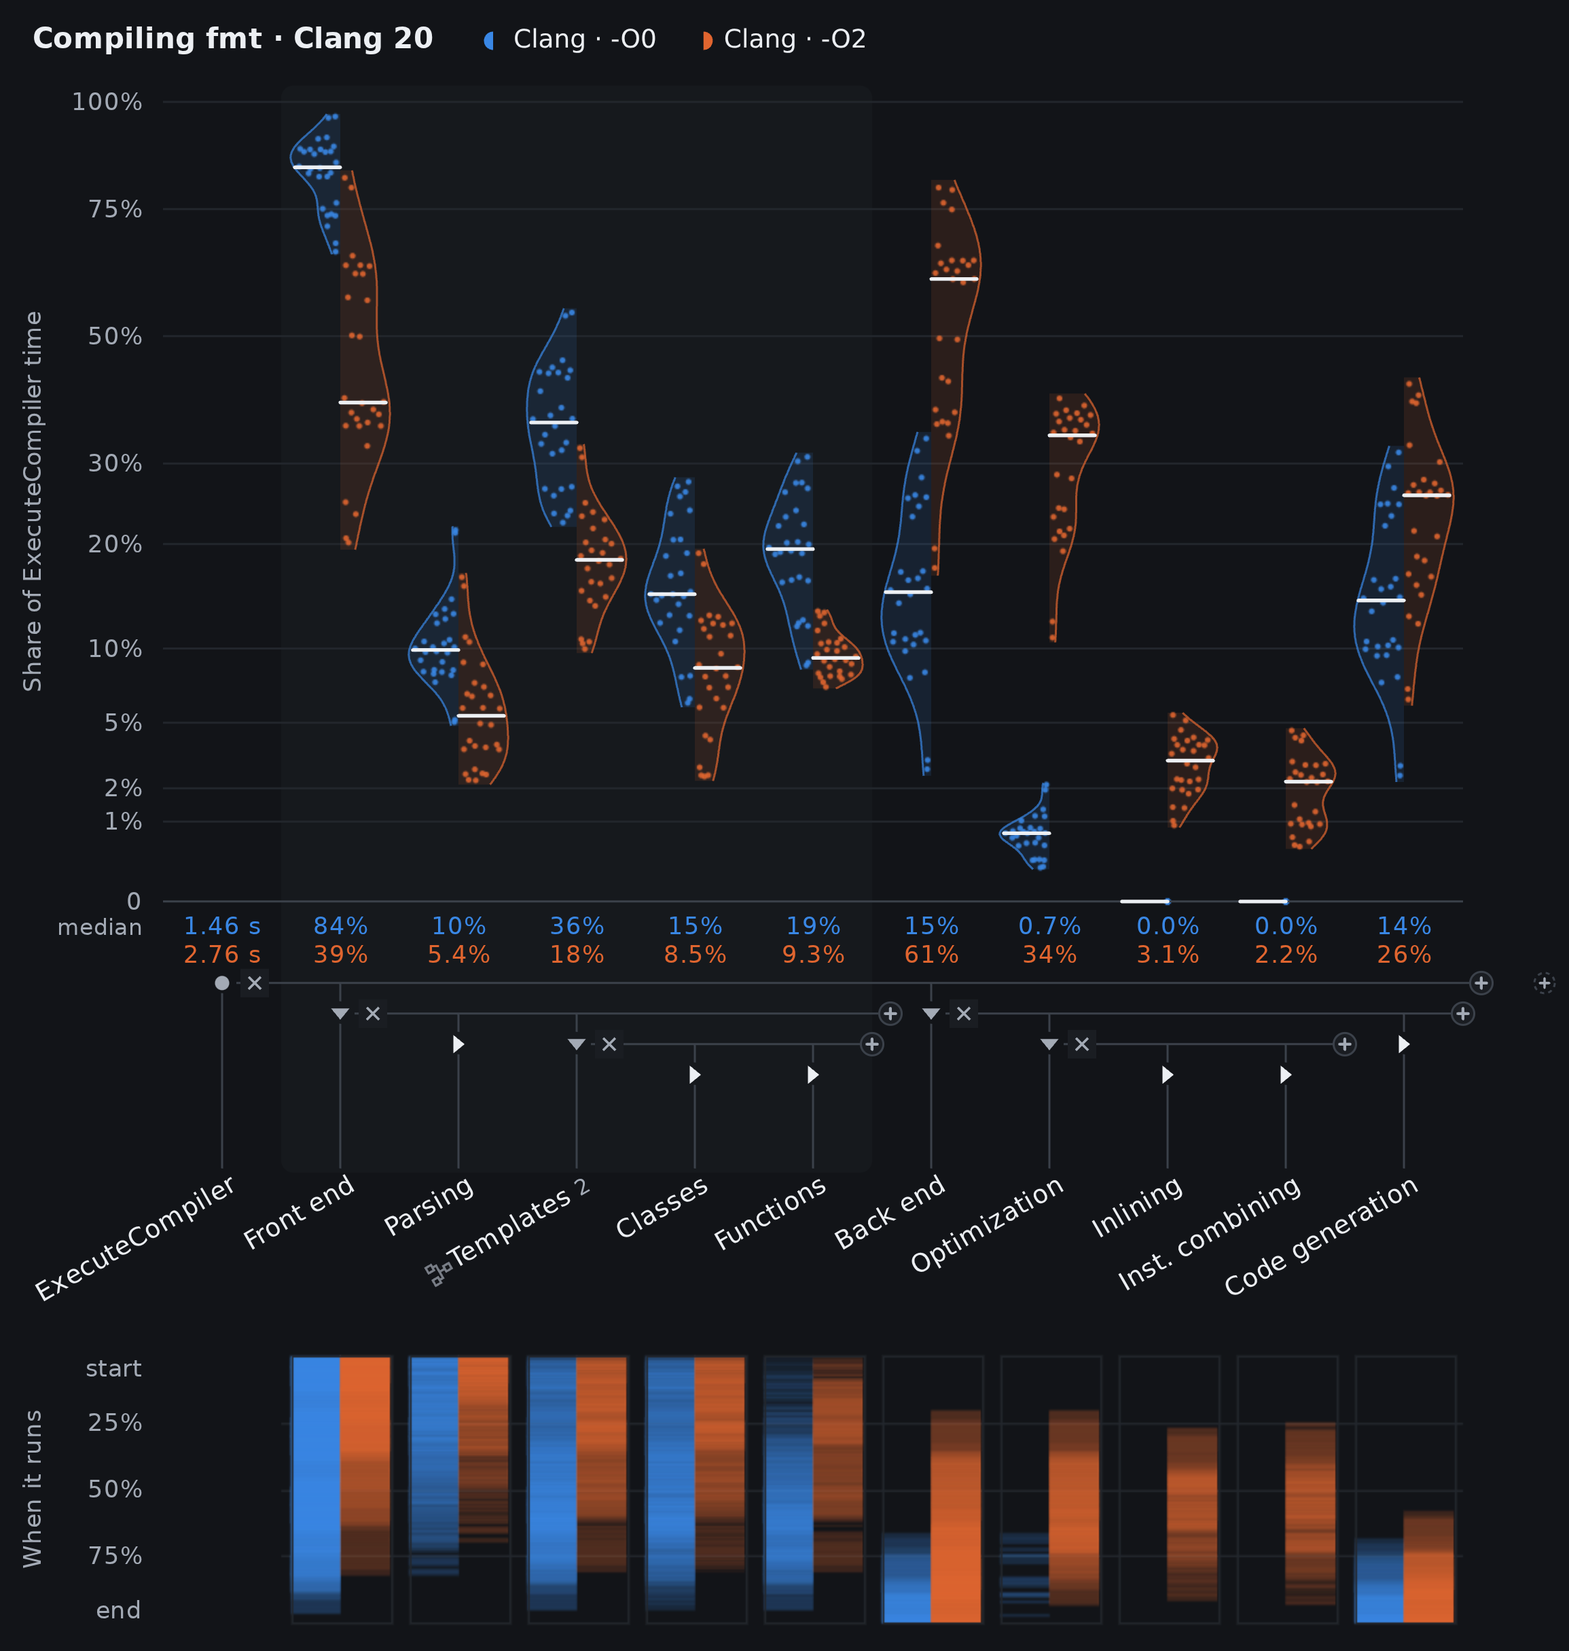
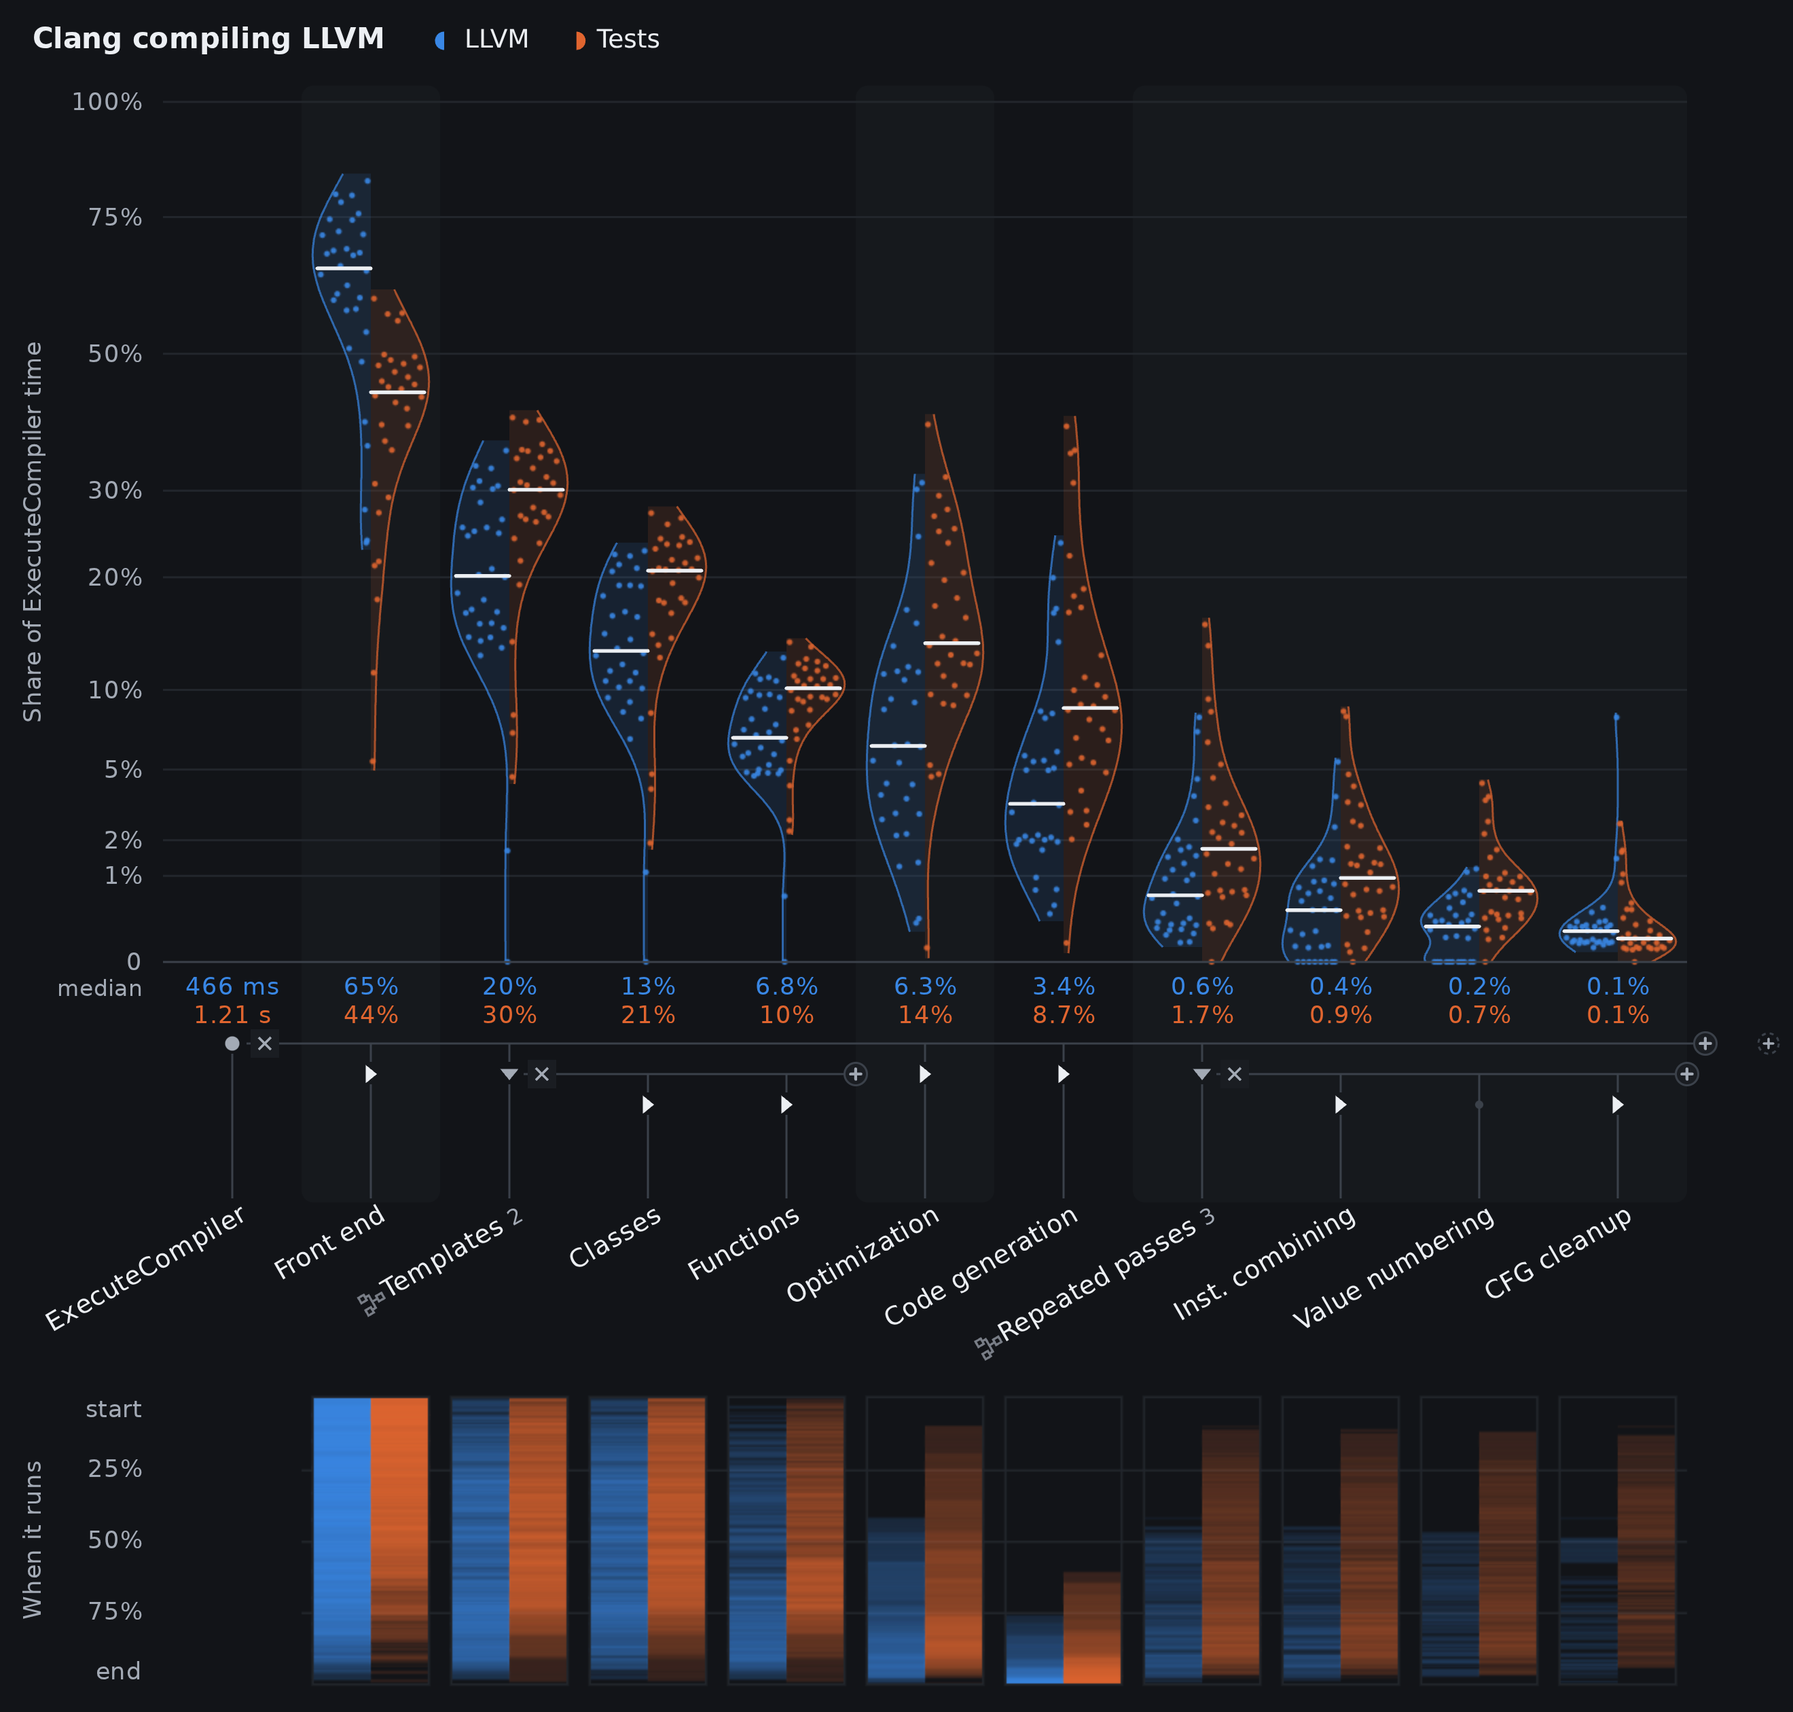
Showcase per-file LLVM compilation profiles
Collect time traces and optional perf stacks from compilation databases. Compare LLVM library and test files with reusable component layouts.

diff --git a/examples/clang/collect_build.py b/examples/clang/collect_build.py
@@ -1,0 +1,106 @@
+#!/usr/bin/env python3
+"""Replay selected compilation-database entries, one measurement per source file."""
+import argparse
+import fnmatch
+import gzip
+import hashlib
+import json
+from pathlib import Path
+import shlex
+import subprocess
+
+
+def main():
+    p = argparse.ArgumentParser(description=__doc__)
+    p.add_argument('database', type=Path)
+    p.add_argument('output', type=Path)
+    p.add_argument('--group', action='append', required=True, metavar='NAME=GLOB')
+    p.add_argument('--limit', type=int, default=32, help='evenly spaced files per group; 0 means all')
+    p.add_argument('--perf', action='store_true', help='also collect cpu-clock stacks (requires Linux perf permission)')
+    p.add_argument('--frequency', type=int, default=199)
+    p.add_argument('--granularity', type=int, default=100, help='time-trace minimum duration in microseconds')
+    p.add_argument('--launcher', default='', help='e.g. "balance-exec --kind compile --"')
+    p.add_argument('--resume', action='store_true')
+    a = p.parse_args()
+    if a.limit < 0 or a.frequency <= 0 or a.granularity < 0:
+        p.error('limit/granularity must be nonnegative; frequency must be positive')
+    a.output = a.output.resolve()
+    entries = json.loads(a.database.read_text())
+    manifest = []
+    for group in a.group:
+        name, pattern = group.split('=', 1)
+        if not name or Path(name).name != name or name in ('.', '..'):
+            p.error('group names must be single directory names')
+        selected = {e['file']: e for e in entries if fnmatch.fnmatch(e['file'], pattern) or fnmatch.fnmatch(e['file'], '*/'+pattern)}
+        selected = [selected[k] for k in sorted(selected)]
+        if not selected:
+            p.error(f'no compilation commands match {pattern}')
+        if a.limit and len(selected) > a.limit:
+            selected = [selected[k*(len(selected)-1)//max(1,a.limit-1)] for k in range(a.limit)]
+        for e in selected:
+            source = Path(e['file'])
+            if not source.is_absolute():
+                source = Path(e['directory'])/source
+            label = source.name
+            if sum(Path(item['file']).name == label for item in selected) > 1:
+                label += '-'+hashlib.sha256(str(source).encode()).hexdigest()[:6]
+            folder = a.output/name
+            folder.mkdir(parents=True, exist_ok=True)
+            base = folder/label
+            trace, profile = Path(str(base)+'.json'), Path(str(base)+'.perf.txt.gz')
+            original = e.get('arguments') or shlex.split(e['command'])
+            command, skip = [], False
+            for token in original:
+                if skip:
+                    skip = False
+                    continue
+                if token in ('-o', '-MF', '-MT', '-MQ'):
+                    skip = True
+                elif token not in ('-MD', '-MMD') and not token.startswith('-ftime-trace'):
+                    command.append(token)
+            command += ['-o', str(base)+'.o', f'-ftime-trace={trace}', f'-ftime-trace-granularity={a.granularity}']
+            record = {'source':str(source), 'sha256':hashlib.sha256(source.read_bytes()).hexdigest(),
+                      'directory':e['directory'], 'command':command, 'perf_hz':a.frequency if a.perf else None,
+                      'compiler':subprocess.check_output([command[0], '--version'], text=True).splitlines()[0]}
+            (folder/'metadata').mkdir(exist_ok=True)
+            stamp = folder/'metadata'/(label+'.json')
+            if a.resume and stamp.exists():
+                previous = json.loads(stamp.read_text())
+                empty = previous.pop('perf_empty', False)
+                if previous == record and trace.exists() and (not a.perf or profile.exists() or empty):
+                    if empty:
+                        record['perf_empty'] = True
+                    manifest.append(record)
+                    continue
+            stamp.unlink(missing_ok=True)
+            print(f'{name}: {source.name}', flush=True)
+            measured = command
+            if a.perf:
+                measured = ['perf', 'record', '-q', '-e', 'cpu-clock:u', '-F', str(a.frequency),
+                            '--call-graph', 'dwarf,16384', '-o', str(base)+'.perf.data', '--', *command]
+            with Path(str(base)+'.log').open('w') as log:
+                subprocess.run([*shlex.split(a.launcher), *measured], cwd=e['directory'], stdout=log, stderr=log, check=True)
+                if a.perf:
+                    with gzip.open(profile, 'wb') as out:
+                        proc = subprocess.Popen(['perf', 'script', '--no-inline', '-i', str(base)+'.perf.data',
+                                                 '-F', 'comm,pid,tid,time,period,event,ip,sym,dso'], stdout=subprocess.PIPE, stderr=log)
+                        while block := proc.stdout.read(1024*1024):
+                            out.write(block)
+                        if proc.wait():
+                            raise RuntimeError(f'perf export failed; see {base}.log')
+                    Path(str(base)+'.perf.data').unlink()
+                    with gzip.open(profile, 'rb') as out:
+                        empty = not out.read(1)
+                    if empty:
+                        profile.replace(folder/'metadata'/profile.name)
+                        record['perf_empty'] = True
+                        print(f'  No CPU samples: {source.name}; time trace retained', flush=True)
+            Path(str(base)+'.o').unlink()
+            stamp.write_text(json.dumps(record, indent=2)+'\n')
+            manifest.append(record)
+    (a.output/'manifest.json').write_text(json.dumps(manifest, indent=2)+'\n')
+    print(f'{len(manifest)} compilations in {a.output}', flush=True)
+
+
+if __name__ == '__main__':
+    main()

diff --git a/examples/clang/README.md b/examples/clang/README.md
@@ -1,19 +1,35 @@
-# Compile fmt with Clang
+# Compiling LLVM
 
-The README image compares 28 compilations each at `-O0` and `-O2`: 14 translation units from [fmt 11.2.0](https://github.com/fmtlib/fmt/tree/11.2.0), compiled twice with Clang 20.1.8. Each dot is one translation unit. The report contains about 638,000 spans; tracing omits events shorter than 100 µs. These are local observations, not a portable compiler benchmark.
+The README image compares compiling LLVM library files with compiling its unit tests. Each dot is one source file. Templates and repeated optimization passes are extracted into top-level groups; their time is subtracted from the broader phases. The CPU layout makes the same comparison from sampled stacks.
 
-From the Violinoscope checkout:
+Collected with Clang 20.1.8 against LLVM `llvmorg-20.1.8` (`87f0227cb601`), Release flags: 32 evenly spaced files from `llvm/lib/Support` and 32 from `llvm/unittests/ADT`. This is a representative compilation subset, not a full LLVM build or a run of the test executables. It produced 255,163 time-trace spans. Perf produced 207,281 stack segments across 63 files; one very short file had no samples.
+
+Configure with an installed Clang, CMake and Ninja, then generate the headers needed by the selected files:
 
 ```sh
-git clone --depth 1 --branch 11.2.0 https://github.com/fmtlib/fmt.git /tmp/fmt
-python3 examples/clang/collect.py /tmp/fmt /tmp/fmt-traces --compiler clang++
-python3 violinoscope.py 'O0=/tmp/fmt-traces/O0/*.json' 'O2=/tmp/fmt-traces/O2/*.json' \
-  --unit ExecuteCompiler --left O0 --right O2 \
-  --layout examples/clang/phases.layout.json --title 'Compiling fmt' -o fmt.html
+git clone --depth 1 --branch llvmorg-20.1.8 https://github.com/llvm/llvm-project.git /tmp/llvm-project
+cmake -G Ninja -S /tmp/llvm-project/llvm -B /tmp/llvm-build \
+  -DCMAKE_C_COMPILER=clang -DCMAKE_CXX_COMPILER=clang++ \
+  -DCMAKE_BUILD_TYPE=Release -DCMAKE_EXPORT_COMPILE_COMMANDS=ON \
+  -DLLVM_TARGETS_TO_BUILD=X86 -DLLVM_INCLUDE_BENCHMARKS=OFF
+cmake --build /tmp/llvm-build --target intrinsics_gen
+python3 examples/clang/collect_build.py /tmp/llvm-build/compile_commands.json /tmp/llvm-traces \
+  --group 'LLVM=llvm/lib/Support/*.cpp' --group 'Tests=llvm/unittests/ADT/*.cpp' --perf
 ```
 
-The collection runs sequentially, alternating optimization levels. `--repeats`, `--flags`, `--launcher` and `--resume` cover repetition, toolchain flags, a compiler launcher and interrupted collections. Keep compiler/version/flags fixed when resuming. A compiler, C++ headers and Python 3.9+ are required; linking fmt or installing it is unnecessary.
+`--perf` requires Linux perf access; omit it for time traces alone. Collection is sequential. If installed, `--launcher 'balance-exec --kind compile --'` shares the machine's build resources. `--limit 0` collects every matching file; the default is 32 per group. Other source trees work through their compilation database, provided generated headers already exist.
 
-The layout groups templates and separates parsing, optimization, inlining and code generation. Span names stay available in Made of. Shares are exclusive between siblings, including recursive template calls; individual Clang aggregate counters cannot be summed this way.
+```sh
+python3 violinoscope.py 'LLVM=/tmp/llvm-traces/LLVM/*.json' 'Tests=/tmp/llvm-traces/Tests/*.json' \
+  --unit ExecuteCompiler --left LLVM --right Tests --layout examples/clang/phases.layout.json \
+  --title 'Clang compiling LLVM' -o clang.html
+python3 violinoscope.py 'LLVM=/tmp/llvm-traces/LLVM/*.perf.txt.gz' 'Tests=/tmp/llvm-traces/Tests/*.perf.txt.gz' \
+  --unit 'Sampled CPU' --left LLVM --right Tests --layout examples/clang/cpu.layout.json \
+  --title 'Clang CPU samples' -o clang-cpu.html
+```
 
-For [perf CPU sampling](../../docs/collecting.md#linux-perf), `cpu.layout.json` offers a small Clang breakdown. Use `--layout examples/clang/cpu.layout.json`; symbol names depend on the compiler build. Missing or truncated stack frames remain unexplained, and these measurements are sampled CPU time rather than elapsed compilation phases.
+Time traces retain events lasting at least 100 µs; perf samples CPU at 199 Hz with DWARF stacks. Both are adjustable. Sampled widths exclude waits and scheduling gaps; the Samples tab shows stack order on a CPU-time axis. Unknown frames remain visible. Very short functions may receive no samples.
+
+The output retains exact commands, compiler versions, source hashes, logs and per-file metadata. `--resume` reuses completed files with matching commands/source hashes; use a new output directory if headers or the toolchain changed. Failed compilations stop collection. Empty perf recordings are kept under `metadata` and omitted from the CPU report.
+
+The older `collect.py` helper remains available for fmt 11.2.0: it compares 14 translation units at `-O0` and `-O2`, twice each. Its input is a fmt checkout and an output directory; use the same phase layout and `ExecuteCompiler` unit.

diff --git a/docs/development.md b/docs/development.md
@@ -33,13 +33,16 @@ Measure a real report with:
 python3 tests/performance_check.py report.html --stress --output performance.json
 ```
 
-Measured in Chromium at 1600×1050 (timings include two animation frames):
+Measured in Chromium at 1600×1050; actions include two animation frames:
 
-| Recording | Load | Move / reorder | Add 75 names | Flame pan | Critical-path toggle |
+| Recording | Load | Move / reorder | Add 75 names | Open chart | Expand full table tree |
 | --- | --- | --- | --- | --- | --- |
-| 822,426 spans, 6,586 units, 189 paths | 4.4 s | 133 / 33 ms | 1.01 s | 21–35 ms | 52 ms |
-| Clang: 637,678 spans, 56 units, 1,266 paths | 3.1 s | 50 / 33 ms | 190 ms | 28–37 ms | 34 ms |
+| YDB: 822,426 spans, 6,586 units | 4.5 s | 150 / 33 ms | 1.06 s | 104 ms | 33 ms |
+| LLVM time traces: 255,163 spans, 64 files | 2.5 s | 33 / 33 ms | 170 ms | 107 ms | 33 ms |
+| LLVM perf: 207,281 segments, 63 files, 48,768 paths | 2.2 s | 116 / 33 ms | 134 ms | 107 ms | 183 ms |
 
-Drag handlers stayed below 4 ms. Retained JS heap was about 142 MB and 24 MB respectively. A separate 109,379-span compilation loaded in 0.75 s. These are measured workloads, not limits: the number of units, paths and visible columns matters as much as span count. Bulk edits across thousands of runs still take longer than a frame.
+Drag handlers stayed below 4 ms. Retained JS heap was about 143, 15 and 165 MB respectively. A first picker calculation in an already populated perf layout takes 0.9–1.0 s for roughly 4,900 names; subsequent searches use its cached results. Panning ranged from 20–80 ms including animation frames. These are tested workloads, not capacity guarantees: path diversity, stack depth, unit count and visible columns matter as much as span count.
 
-The flame chart caches compact visible-depth rows; aggregate profiles avoid per-occurrence objects. Detailed span objects use a row-bounded LRU. Embedded chunks are JSON-parsed incrementally, and sequential traces share their main/projection interval index. The critical-path engine caches sparse causal graphs per trace; 100,001 ordinary spans required two vertices and about 25 ms. Its fixtures and 10,000 randomized fork/join graphs check coverage, joins, resumption delay, unjoined work, missing links and cycles.
+The perf fixture exposed a 12 s startup from eager name-graph closure and a 13 s expanded-table render. Recursive name components now share lazy reachability; picker previews revisit only affected routes and interval patterns. The table and waterfall render viewport rows, and chronological charts index complete stacks by depth/time instead of truncating at eight levels. Text measurements are bounded and cached. None of these changes alters allocation rules.
+
+The browser checks cover actual tab state (including perf Samples), deep chart scrolling, all profile views, table search/expansion/scrolling, critical paths, drag editing and offline export. Model fuzzing checks snapshot undo, cold recomputation and picker previews against actual edits. Critical-path fixtures and 10,000 randomized fork/join graphs check coverage, joins, resumption delay, unjoined work, missing links and cycles; 100,001 sequential spans take about 26 ms.

diff --git a/docs/collecting.md b/docs/collecting.md
@@ -86,7 +86,7 @@ python3 violinoscope.py 'optimized=build/*.json' --unit ExecuteCompiler \
   --layout examples/clang/phases.layout.json -o compiler.html
 ```
 
-Clang's granularity is in microseconds. Use `0` to retain very short events, at the cost of larger files. See [Clang's time-trace options](https://clang.llvm.org/docs/ClangCommandLineReference.html) and the [reproducible fmt example](../examples/clang/README.md).
+Clang's granularity is in microseconds. Use `0` to retain very short events, at the cost of larger files. See [Clang's time-trace options](https://clang.llvm.org/docs/ClangCommandLineReference.html) and the [reproducible LLVM example](../examples/clang/README.md).
 
 ## Linux perf
 
@@ -100,4 +100,4 @@ python3 violinoscope.py cpu.perf.txt -o cpu.html
 
 The `.perf.txt` or `.perf` suffix selects this importer; gzip works too. It accepts `cpu-clock` and `task-clock`, whose periods are nanoseconds. Each recorded thread becomes a **Sampled CPU** unit. Adjacent samples with a common stack coalesce; their sample periods determine width. Counts refer to reconstructed segments, not function invocations. Unknown/truncated stacks stay visible. Hardware cycles are rejected because they cannot be converted to time this way.
 
-Phases, merged flamegraphs and callers/callees work on sampled CPU time. The wall-clock timeline and critical path are unavailable: samples do not identify waits or causal relationships. This was exercised with an actual Clang compilation, not just a format fixture. See the [perf script manual](https://man7.org/linux/man-pages/man1/perf-script.1.html).
+Phases, flamegraphs and callers/callees measure sampled CPU time. The **Samples** tab opens a flame chart or waterfall in recorded stack order, weighted by sample periods. Independent units are concatenated, with no wall-clock gaps or implied concurrency. Critical-path highlighting is unavailable because samples do not identify waits or dependencies. File names label single-thread recordings; multi-thread recordings also include PID/TID. The [LLVM example](../examples/clang/README.md) collects one compilation per file. See the [perf script manual](https://man7.org/linux/man-pages/man1/perf-script.1.html).

diff --git a/README.md b/README.md
@@ -2,9 +2,9 @@
 
 Compare where time goes across thousands of traced requests. Build your own breakdown, compare groups, and open any request in a flame chart or waterfall.
 
-![Compiler phase distributions for fmt, comparing Clang -O0 and -O2](docs/clang-phases.png)
+![Clang compiling LLVM library files and unit tests, with templates and repeated passes extracted](docs/clang-phases.png)
 
-[Reproduce this Clang example](examples/clang/README.md): 56 compilations, about 638,000 spans, one offline page.
+[Reproduce this Clang example](examples/clang/README.md): 64 source files, about 255,000 spans, one offline page.
 
 ```sh
 python3 violinoscope.py before.jsonl after.jsonl --unit "Handle request" -o report.html
